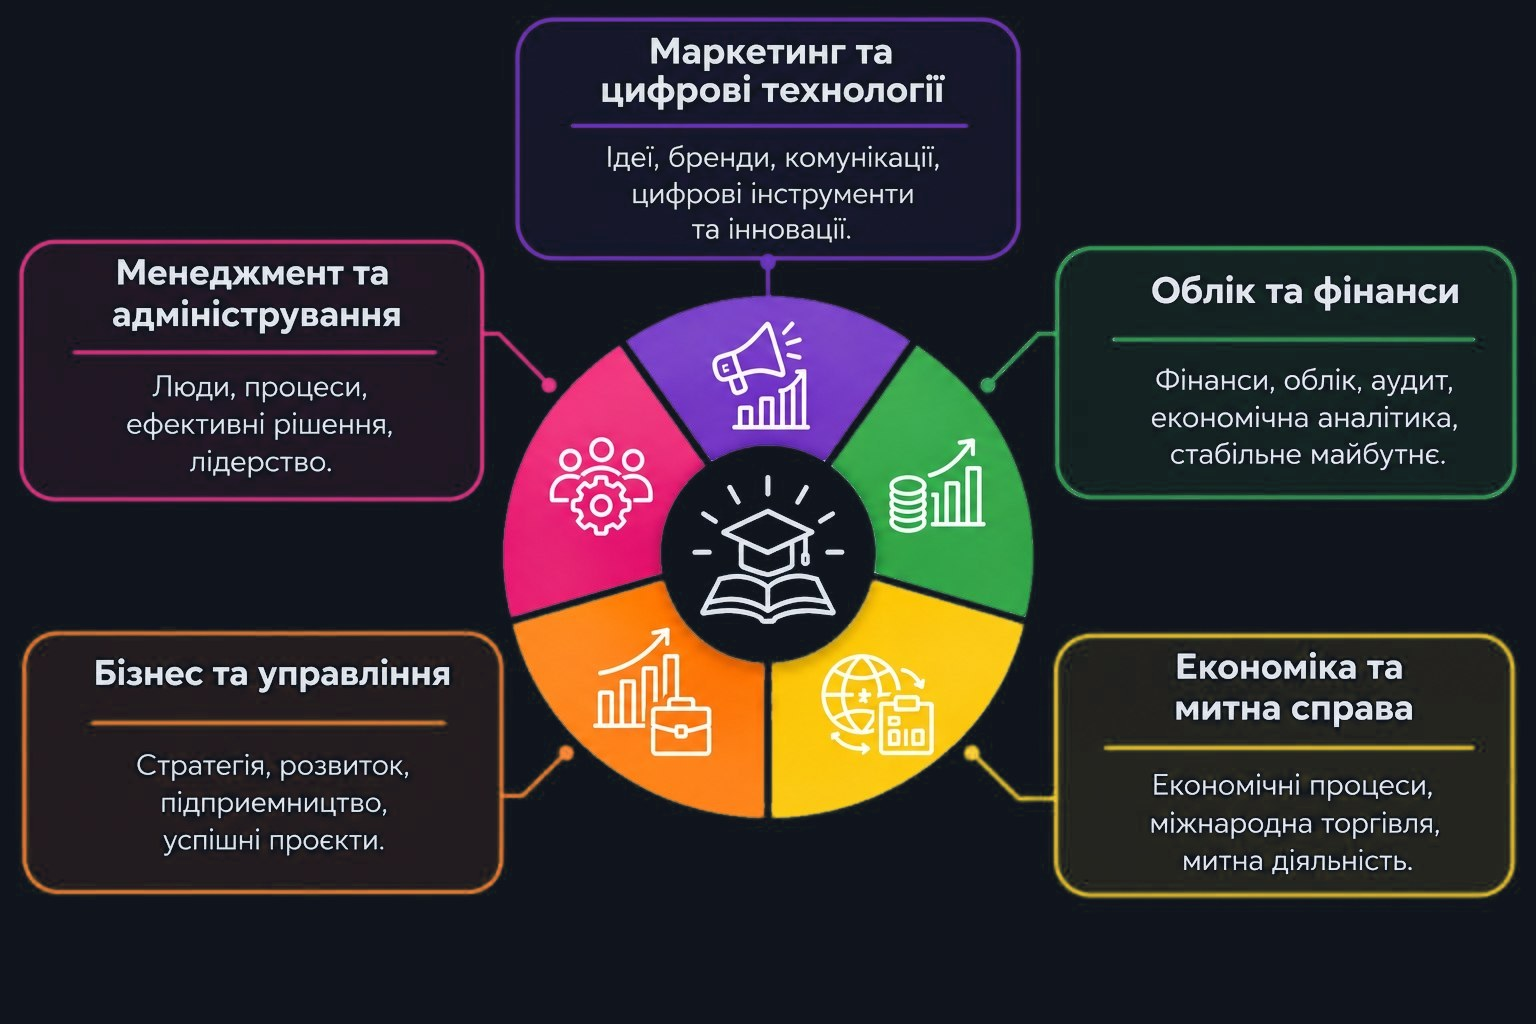
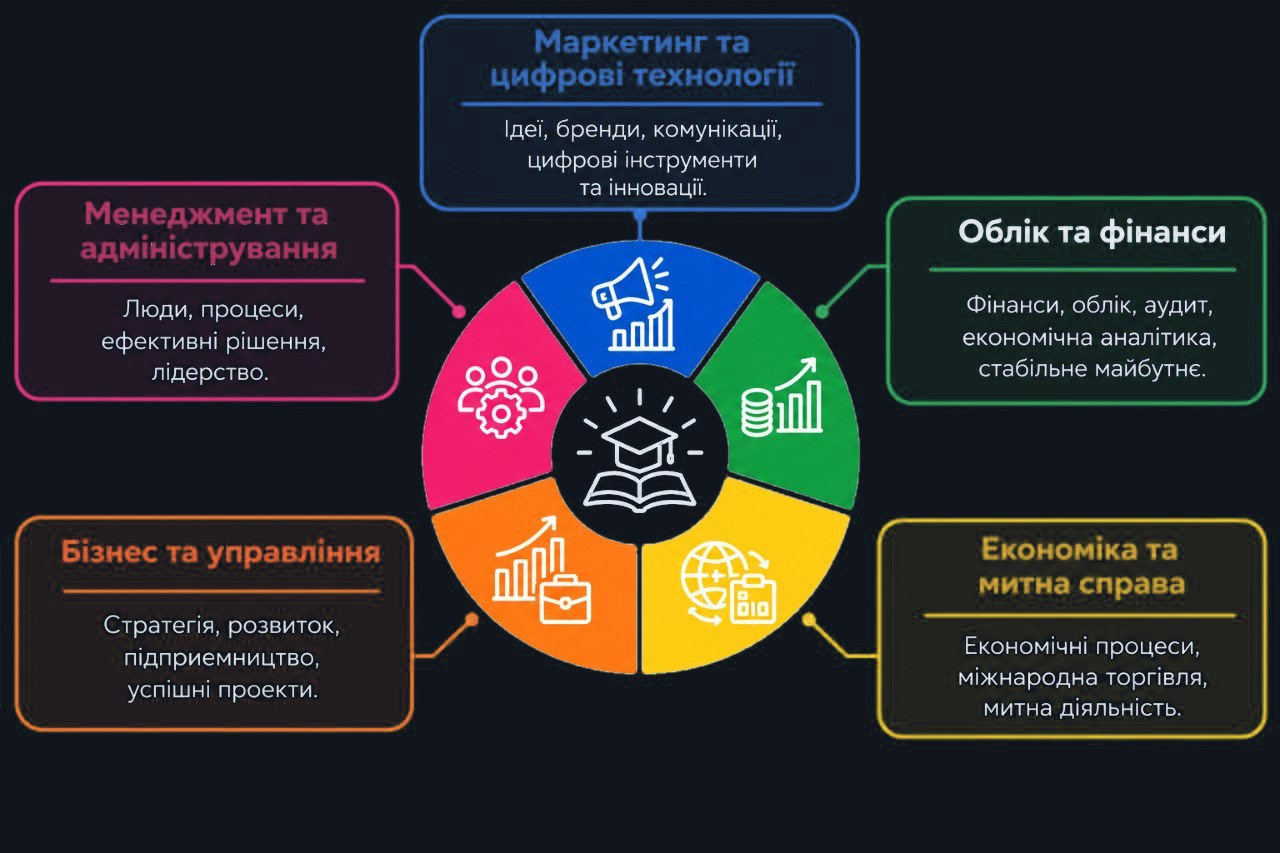
Остаточні кольори кафедр, нова інфографіка, назва факультету, кольори логотипа
- кольори кафедр як на інфографіці: МЦТ синій, МА малиново-рожевий, ОФ зелений, БУ помаранчевий, ЕМС жовтий
- нова інфографіка кафедр (світла й темна версії)
- підпис у шапці: «Факультет бізнес-технологій та економіки»
- логотип: BUSINESS синім, LAB жовтим

Claude-Session: https://claude.ai/code/session_011wGGNetVyLX2afai9dojYx

Changed region(s): [[0.0, 0.0, 1.0, 0.8839], [0.6562, 0.762, 0.6875, 0.7925]]

diff --git a/index.html b/index.html
@@ -8,7 +8,7 @@
 <link rel="preconnect" href="https://fonts.googleapis.com">
 <link rel="preconnect" href="https://fonts.gstatic.com" crossorigin>
 <link href="https://fonts.googleapis.com/css2?family=Unbounded:wght@500;700;900&family=Manrope:wght@400;500;600;700&family=JetBrains+Mono:wght@400;600;700&display=swap" rel="stylesheet">
-  <link rel="stylesheet" href="css/style.css?v=20261025c">
+  <link rel="stylesheet" href="css/style.css?v=20261025d">
   <style>body { margin: 0; }</style>
 </head>
 <body>
@@ -25,7 +25,7 @@
     <span class="brand-mark" aria-hidden="true"><i></i><i></i><i></i></span>
     <div>
       <div class="brand-name">BUSINESS<span>LAB</span></div>
-      <div class="brand-sub">Факультет бізнесу, технологій та економіки</div>
+      <div class="brand-sub">Факультет бізнес-технологій та економіки</div>
     </div>
   </a>
   <div class="ticker" aria-label="Кафедри факультету">
@@ -44,10 +44,10 @@
         <!-- Інфографіка кафедр: img/kafedry.jpg (світла тема) і img/kafedry-dark.jpg (темна тема) -->
         <figure class="dept-figure">
           <!-- світла тема -->
-          <img class="fig-light" src="img/kafedry.jpg?v=20261025c" width="1536" height="1024"
+          <img class="fig-light" src="img/kafedry.jpg?v=20261025d" width="1280" height="853"
                alt="П'ять кафедр факультету: Маркетинг та цифрові технології — ідеї, бренди, комунікації, цифрові інструменти та інновації; Облік та фінанси — фінанси, облік, аудит, економічна аналітика, стабільне майбутнє; Економіка та митна справа — економічні процеси, міжнародна торгівля, митна діяльність; Бізнес та управління — стратегія, розвиток, підприємництво, успішні проєкти; Менеджмент та адміністрування — люди, процеси, ефективні рішення, лідерство.">
           <!-- темна тема (вмикається разом із кнопкою «Темна») -->
-          <img class="fig-dark" src="img/kafedry-dark.jpg?v=20261025c" width="1536" height="1024" alt="" aria-hidden="true">
+          <img class="fig-dark" src="img/kafedry-dark.jpg?v=20261025d" width="1280" height="853" alt="" aria-hidden="true">
         </figure>
         <div class="stats">
           <div><b id="statQ">60</b><span>питань у банку</span></div>
@@ -168,13 +168,13 @@
 <div class="toast" id="toast" hidden></div>
 
   <!-- Порядок важливий: налаштування → питання → логіка гри -->
-  <script src="js/config.js?v=20261025c"></script>
-  <script src="js/questions/marketing-digital.js?v=20261025c"></script>
-  <script src="js/questions/management-administration.js?v=20261025c"></script>
-  <script src="js/questions/accounting-finance.js?v=20261025c"></script>
-  <script src="js/questions/business-management.js?v=20261025c"></script>
-  <script src="js/questions/economics-customs.js?v=20261025c"></script>
-  <script src="js/firebase-config.js?v=20261025c"></script>
-  <script src="js/app.js?v=20261025c"></script>
+  <script src="js/config.js?v=20261025d"></script>
+  <script src="js/questions/marketing-digital.js?v=20261025d"></script>
+  <script src="js/questions/management-administration.js?v=20261025d"></script>
+  <script src="js/questions/accounting-finance.js?v=20261025d"></script>
+  <script src="js/questions/business-management.js?v=20261025d"></script>
+  <script src="js/questions/economics-customs.js?v=20261025d"></script>
+  <script src="js/firebase-config.js?v=20261025d"></script>
+  <script src="js/app.js?v=20261025d"></script>
 </body>
 </html>

diff --git a/css/style.css b/css/style.css
@@ -26,11 +26,13 @@
   --chart-opacity: .55;
 
   /* кольори кафедр */
-  --d-mkt: #7b3fc4;  /* фіолетовий — Маркетинг та цифрові технології */
-  --d-mgt: #c2185b;  /* малиновий */
-  --d-acc: #2e9e4f;  /* зелений */
-  --d-bus: #f57c00;  /* помаранчевий */
-  --d-econ:#f2b705;  /* жовтий */
+  /* кольори кафедр — як на інфографіці img/kafedry.jpg */
+  --d-mkt: #0253ce;  /* синій — Маркетинг та цифрові технології */
+  --d-mgt: #f21e6e;  /* малиново-рожевий — Менеджмент та адміністрування */
+  --d-acc: #129f43;  /* зелений — Облік та фінанси */
+  --d-bus: #fd7614;  /* помаранчевий — Бізнес та управління */
+  --d-econ:#fccb15;  /* жовтий — Економіка та митна справа */
+  --brand-blue: #0253ce;  /* «BUSINESS» у логотипі */
   --econ-text: #a87d00;
   --icon-bg: var(--bg-2);
 
@@ -61,11 +63,12 @@
   --shadow: rgba(0, 0, 0, 0.6);
   --chart: #f5b83d;
   --chart-opacity: .45;
-  --d-mkt: #9b6bff;
-  --d-mgt: #e0457b;
-  --d-acc: #34c76f;
-  --d-bus: #ff9a3c;
-  --d-econ:#f5c542;
+  --d-mkt: #3d7dff;
+  --d-mgt: #ff4d8d;
+  --d-acc: #2fc766;
+  --d-bus: #ff8a3d;
+  --d-econ:#ffd43b;
+  --brand-blue: #4d8dff;
   --econ-text: #f5c542;
 }
 * { box-sizing: border-box; }
@@ -147,8 +150,8 @@ a.brand, a.brand:link, a.brand:visited, a.brand:hover, a.brand:active { color: i
 .brand-mark i:nth-child(1) { height: 55%; }
 .brand-mark i:nth-child(2) { height: 100%; }
 .brand-mark i:nth-child(3) { height: 40%; opacity: .6; }
-.brand-name { font-family: var(--font-display); font-weight: 900; letter-spacing: .03em; font-size: 28px; line-height: 1.05; white-space: nowrap; }
-.brand-name span { color: var(--accent-text); margin-left: 4px; }
+.brand-name { font-family: var(--font-display); font-weight: 900; letter-spacing: .03em; font-size: 28px; line-height: 1.05; white-space: nowrap; color: var(--brand-blue); }
+.brand-name span { color: var(--accent); margin-left: 4px; }
 .brand-sub { font-size: 12px; font-weight: 600; color: var(--muted); letter-spacing: .02em; margin-top: 3px; white-space: nowrap; }
 
 /* ---------- екрани ---------- */
